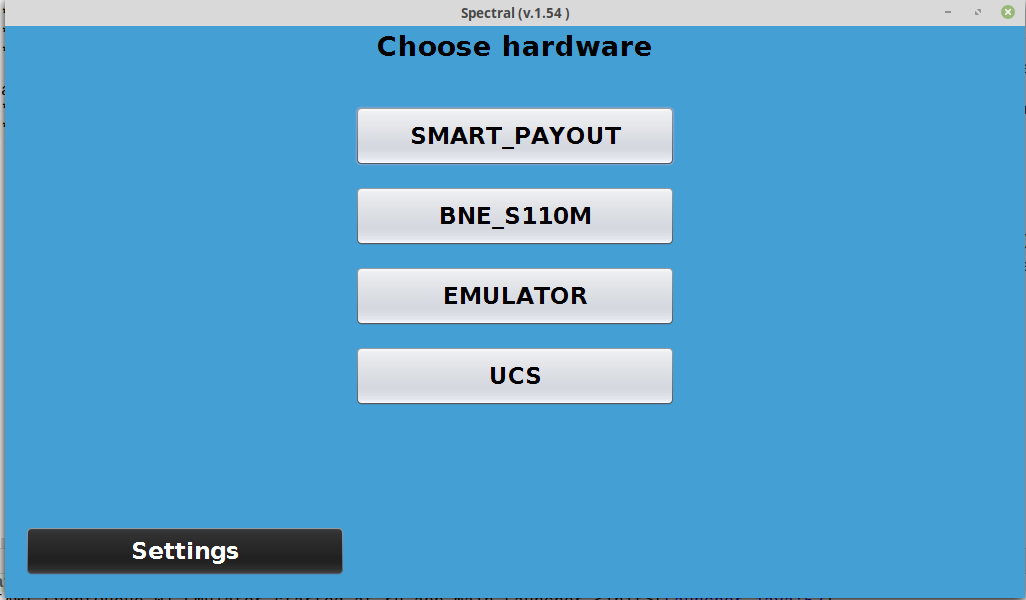
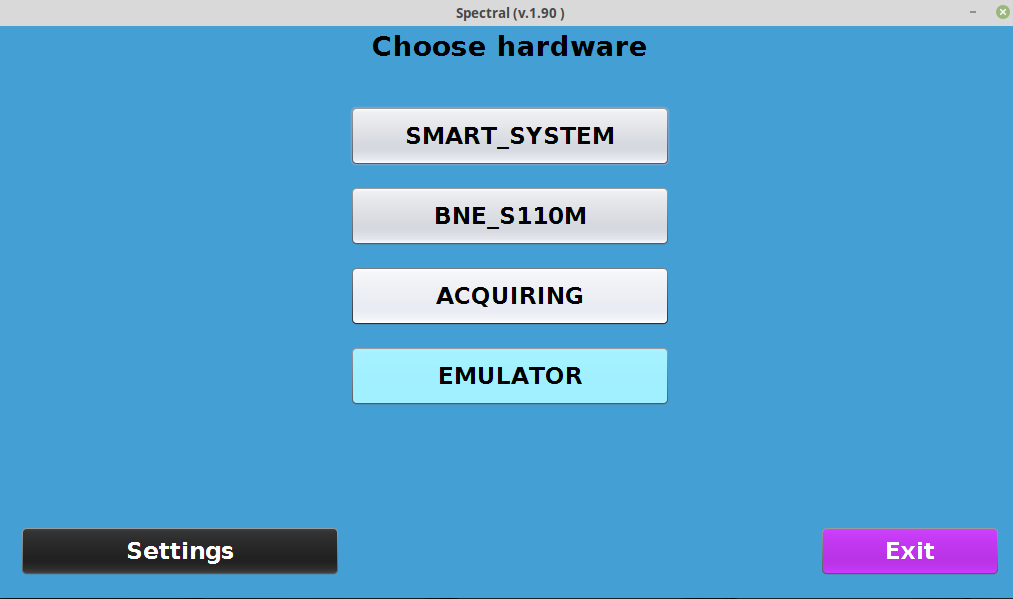
ver 1.91

diff --git a/src/main/java/ru/app/main/RmiServer.java b/src/main/java/ru/app/main/RmiServer.java
@@ -45,8 +45,8 @@ public class RmiServer extends UnicastRemoteObject implements RmiServerInterface
     private static final int STATUS_TIME_OUT = Integer.parseInt(Settings.propEmulator.get("timeout.status")); // timeout between bot-statuses
     private static final int NOMINALS_TIME_OUT = Integer.parseInt(Settings.propEmulator.get("timeout.nominals")); // timeout between insert notes
     private static final int REQUESTER_TIME_OUT = Integer.parseInt(Settings.propEmulator.get("timeout.requester")); // timeout between insert notes
-    private static final int BOT_STARTER_TIME_OUT = 60000 * 10; // timeout for start bot & receive identification command
-    private static final long CASHER_TIME_OUT = 60000;  // timeout for expected cashmachine status
+    private static final int BOT_STARTER_TIME_OUT = 1000 * 60 * 10; // timeout for start bot & receive identification command
+    private static final long CASHER_TIME_OUT = 1000 * 60;  // timeout for expected cashmachine status
 
     private Payment payment;
     private long activity = System.currentTimeMillis();
@@ -168,7 +168,7 @@ public class RmiServer extends UnicastRemoteObject implements RmiServerInterface
                     LOGGER.error("COMMAND IDENTIFICATION TIME OUT! REQUESTER WILL NOT START!");
                 } else {
                     LOGGER.info("Identification command received. 10 minutes waiting for repaints...");
-                    Thread.sleep(mock ? 5000 : 60000 * 10);
+                    Thread.sleep(mock ? 5000 : 1000 * 60 * 10);
                     if (!requesterStarted) startRequester();
                 }
             } else {
@@ -185,7 +185,6 @@ public class RmiServer extends UnicastRemoteObject implements RmiServerInterface
         while (true) {
             try {
                 Thread.sleep(3000);
-
                 if (mock) {
                     payment = new Payment();
                     payment.setId(100500);
@@ -226,7 +225,7 @@ public class RmiServer extends UnicastRemoteObject implements RmiServerInterface
 //                        boolean access = waitFor(Status.COMPLETED);
 //                        if (!access) continue;
 
-                        boolean idling = waitFor2(BillStateType.Idling, 200000);
+                        boolean idling = waitFor2(BillStateType.Idling, 1000 * 60 * 4);
                         if (!idling) continue;
 
                         Thread.sleep(8000);
@@ -268,16 +267,16 @@ public class RmiServer extends UnicastRemoteObject implements RmiServerInterface
                         Helper.saveProp(payProperties, payFile);
 
                         if (error) {
-                            waitFor(Status.SUCCESS, 180000);
+                            waitFor(Status.SUCCESS, 1000 * 60 * 3);
                             saveAsError();
                             Thread.sleep(CASHER_TIME_OUT);
                             continue;
                         }
 
-                        boolean success = waitFor(Status.SUCCESS, 30000);
+                        boolean success = waitFor(Status.SUCCESS, 1000 * 30);
                         if (success) {
                             LOGGER.info("Payment successfully complete! Waiting a minute before sending payment.");
-                            Thread.sleep(60000);
+                            Thread.sleep(1000 * 60 * 3);
                             data = Helper.loadProp(payFile);
                             payment.setCodeOperation(data.get("code_operation"));
 

diff --git a/src/main/java/ru/app/main/Launcher.java b/src/main/java/ru/app/main/Launcher.java
@@ -124,6 +124,9 @@ public class Launcher extends Thread {
             button.setFont(FONT);
             button.setBounds(window.getWidth() / 2 - 160, 80 + i * 80, 320, 60);
             button.addMouseListener(new HardwareListener(hw[i]));
+            if (hw[i].equals(DeviceType.EMULATOR)) {
+                button.setBackground(new Color(133, 221, 238));
+            }
             mainPanel.add(button);
         }
 

diff --git a/src/main/java/ru/app/main/Settings.java b/src/main/java/ru/app/main/Settings.java
@@ -9,7 +9,7 @@ import java.util.HashMap;
 import java.util.Map;
 
 public class Settings {
-    public static final String VERSION = "1.90";
+    public static final String VERSION = "1.91";
     public static final Dimension dimension = new Dimension(1020, 600);
     public static final DateFormat dateFormat = new SimpleDateFormat("HH:mm:ss:S");
     public static final String COUNTRY = "RUB";

diff --git a/src/main/java/ru/app/bus/DeviceType.java b/src/main/java/ru/app/bus/DeviceType.java
@@ -3,6 +3,6 @@ package ru.app.bus;
 public enum DeviceType {
     SMART_SYSTEM,
     BNE_S110M,
-    EMULATOR,
-    ACQUIRING;
+    ACQUIRING,
+    EMULATOR;
 }

diff --git a/README.md b/README.md
@@ -9,5 +9,7 @@
 * Монетоприемник cctalk (emp800)
 * Купюроприемник ccnet (cashcode) с режимом моста (bridge mode)
 
+Также реализован эмулятор ccnet, взаимодействующий с сервером платежей для командной строки - без использования 
+графического интерфейса. Хорошо работает на железе с ограниченными ресурсами. 
 
-![ScreenShot](src/main/resources/img/menu.png?raw=true "main root")
+![ScreenShot](src/main/resources/img/menu.png)
